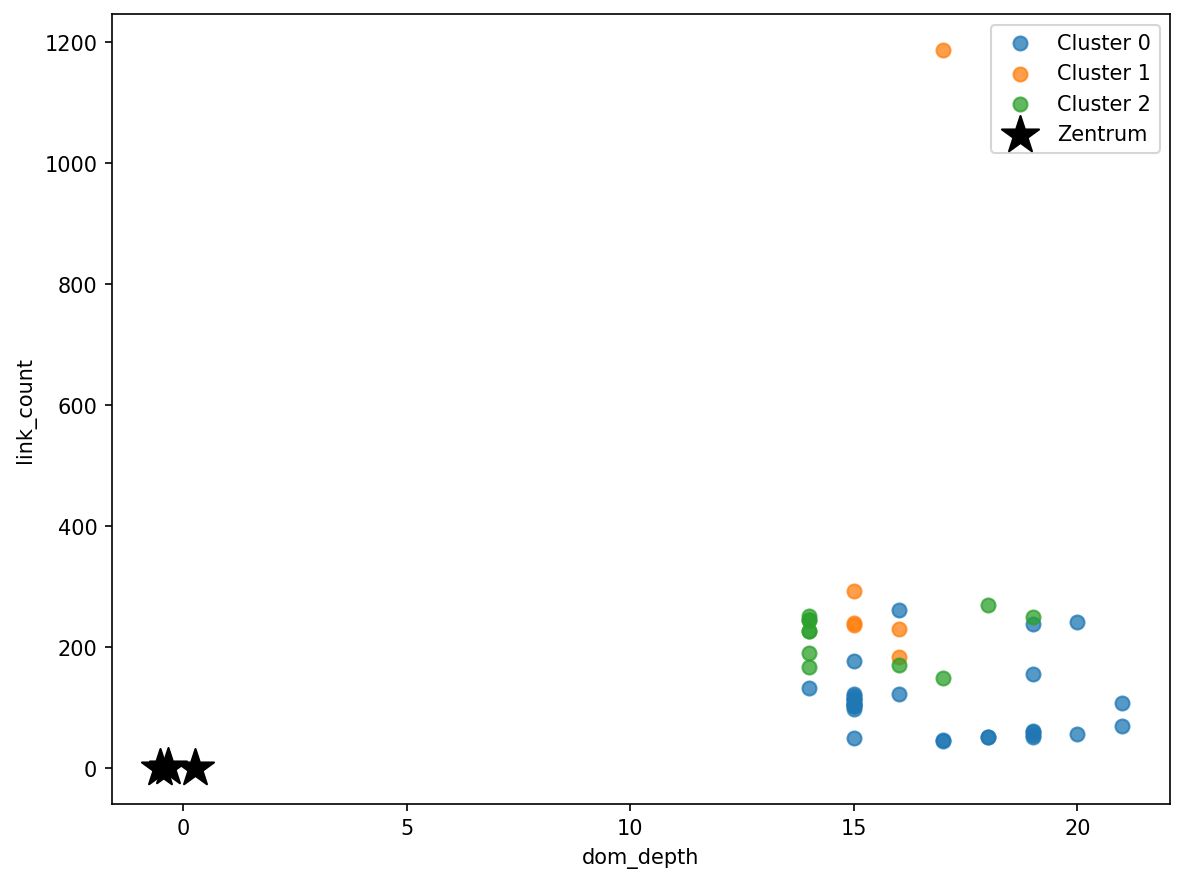
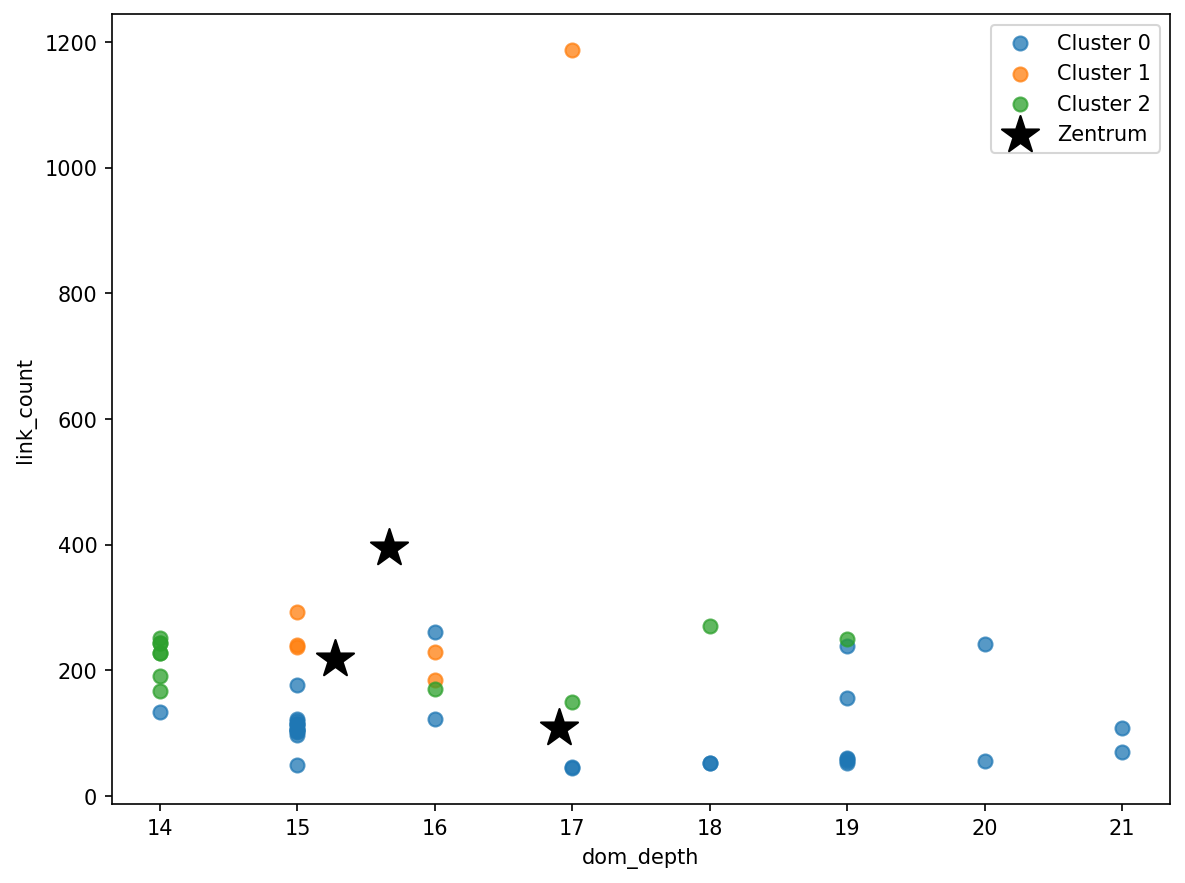
Paper 2 / Skript: Fundstücke der Zweitprüfung beheben (Review9)
- Abbildung 2: Clusterzentren wurden im z-standardisierten Raum gegen
  Rohachsen geplottet — die Sterne lagen weit außerhalb der Punktwolken
  despite anderslautender Caption. Zentren jetzt per inverse_transform
  zurück in Roheinheiten (konsistent mit den Cluster-Mittelwerten aus
  Tabelle 2), Abbildung regeneriert.
- Feature-Tabelle präzisiert: link_count zählt ALLE <a href> inkl.
  interner Navigation (nicht nur 'ausgehende' Links), form_count zählt
  <form>-Elemente (nicht -Felder); 4.2 erhält den entsprechenden Vorbehalt
  für die Hub-Typisierung.
- Ø-Restbestand in 4.1 zu M korrigiert.

Alle übrigen Zahlen der Frischprüfung nachgerechnet und bestätigt
(Tabelle 1, Silhouette 0,433, Dekorrelation 0,500/35-11-1, r=0,81).

diff --git a/check_web_analysis.py b/check_web_analysis.py
@@ -155,15 +155,18 @@ def make_figures(df: pd.DataFrame, labels, out_dir: Path = Path("figures")) -> N
     plt.close(fig)
 
     # Abbildung 2: DOM-Tiefe × Links nach Cluster mit Zentren
-    X = StandardScaler().fit_transform(df[FEATS])
+    scaler = StandardScaler()
+    X = scaler.fit_transform(df[FEATS])
     km = KMeans(n_clusters=3, random_state=SEED_KMEANS, n_init=10).fit(X)
+    # Zentren zurück in Roheinheiten transformieren — im z-Raum geplottet
+    # lägen die Sterne bei ~0 und damit weit außerhalb der Punktwolken
+    centers_raw = scaler.inverse_transform(km.cluster_centers_)
     fig, ax = plt.subplots(figsize=(8, 6))
     for c in range(3):
         m = labels == c
         ax.scatter(df.loc[m, "dom_depth"], df.loc[m, "link_count"],
                    s=45, alpha=0.75, label=f"Cluster {c}")
-    centers = km.cluster_centers_
-    ax.scatter(centers[:, FEATS.index("dom_depth")], centers[:, FEATS.index("link_count")],
+    ax.scatter(centers_raw[:, FEATS.index("dom_depth")], centers_raw[:, FEATS.index("link_count")],
                marker="*", s=350, color="black", label="Zentrum")
     ax.set_xlabel("dom_depth")
     ax.set_ylabel("link_count")

diff --git a/paper_2_webkomplexitaet.md b/paper_2_webkomplexitaet.md
@@ -68,8 +68,8 @@ Das Analyse-Tool ist in Python implementiert (Streamlit-Oberfläche), liest Webs
 
 | Merkmal | Beschreibung |
 |---|---|
-| link_count | Anzahl ausgehender Links |
-| form_count | Anzahl Formularelemente |
+| link_count | Anzahl aller Link-Elemente (`<a href>`) der Seite, inkl. interner Navigation |
+| form_count | Anzahl `<form>`-Elemente |
 | media_count | Anzahl Medienelemente (Bilder, Videos) |
 | text_length | Zeichenanzahl des sichtbaren Texts |
 | dom_depth | Maximale Tiefe des DOM-Baums |
@@ -112,7 +112,7 @@ Das Analyse-Tool ist in Python implementiert (Streamlit-Oberfläche), liest Webs
 
 *Mittelwert ± SD der sechs Merkmale (text_length ÷ 100, dom_nodes ÷ 10 für Darstellbarkeit).*
 
-Abbildung 1 veranschaulicht die in Tabelle 1 berichteten Streuungsunterschiede grafisch. Die Fehlerbalken von `link_count` und `text_length` überdecken einen Großteil des Wertebereichs, während `dom_depth` sichtbar kompakt bleibt. Die Verteilungen zeigen extreme Rechtsschiefe bei `link_count` und `text_length`, denn einzelne Übersichtsseiten von bpb.de (bis zu 1.187 Links, das Maximum in Tabelle 1) treiben Mittelwert und SD deutlich über das Niveau der übrigen Seiten. `form_count` liegt nahe null (Ø 0,19), eine Folge des Formular-Erfassungsproblems bei wiesbaden.de (3.1). `media_count` ist dagegen durch den bpb.de-Artefakt (durchgängig 0) nach unten verzerrt, der Mittelwert von 6,02 stammt praktisch vollständig von hs-rm.de.
+Abbildung 1 veranschaulicht die in Tabelle 1 berichteten Streuungsunterschiede grafisch. Die Fehlerbalken von `link_count` und `text_length` überdecken einen Großteil des Wertebereichs, während `dom_depth` sichtbar kompakt bleibt. Die Verteilungen zeigen extreme Rechtsschiefe bei `link_count` und `text_length`, denn einzelne Übersichtsseiten von bpb.de (bis zu 1.187 Links, das Maximum in Tabelle 1) treiben Mittelwert und SD deutlich über das Niveau der übrigen Seiten. `form_count` liegt nahe null (M 0,19), eine Folge des Formular-Erfassungsproblems bei wiesbaden.de (3.1). `media_count` ist dagegen durch den bpb.de-Artefakt (durchgängig 0) nach unten verzerrt, der Mittelwert von 6,02 stammt praktisch vollständig von hs-rm.de.
 
 ### 4.2 Clustering: Automatisch identifizierte Seitentypen
 
@@ -127,7 +127,7 @@ Die K-Means-Analyse (k = 3) ergab drei Cluster mit einem Silhouette-Score von 0,
 | 1 | 6 | 395,0 | 15,7 | 28.589,2 | 0,0 | Hub-/Übersichtsseiten |
 | 2 | 11 | 217,3 | 15,3 | 10.831,3 | 19,6 | Medienreiche Seiten |
 
-Die Bezeichnungen wurden post-hoc vergeben und sind als analytische Hilfsbegriffe zu verstehen, nicht als validierte Kategorien. Es ergibt sich kein Cluster mit hohem `form_count`, eine direkte Folge des Formular-Erfassungsartefakts. Zur Website-Komposition der Cluster siehe Tabelle 3; sie ist bei der Interpretation aller Cluster-Charakteristika zu berücksichtigen.
+Die Bezeichnungen wurden post-hoc vergeben und sind als analytische Hilfsbegriffe zu verstehen, nicht als validierte Kategorien. Da `link_count` auch interne Navigation enthält (3.2), können hohe Werte sowohl inhaltliche Vielfalt als auch umfangreiche Navigations-/Footer-Strukturen abbilden — die Typisierung „Hub-/Übersichtsseiten" trägt diese Mehrdeutigkeit mit. Es ergibt sich kein Cluster mit hohem `form_count`, eine direkte Folge des Formular-Erfassungsartefakts. Zur Website-Komposition der Cluster siehe Tabelle 3; sie ist bei der Interpretation aller Cluster-Charakteristika zu berücksichtigen.
 
 **Tabelle 3: Cluster-Verteilung nach Website**
 
